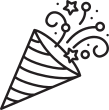
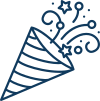
update

diff --git a/thiep/xacnhan.css b/thiep/xacnhan.css
@@ -78,7 +78,7 @@
   --primary-color: rgb(121, 45, 38);
   --empty-box: rgb(76, 53, 44);
   --secondary-color: #F8F3ED;
-  --text-color: #293a4a;
+  --text-color: #103a5d;
   --font-gotham: 'SVN-Gotham';
   --font-gotham-book: 'SVN-GothamBook';
   --font-gotham-bold: 'SVN-GothamBold';
@@ -181,7 +181,7 @@ body {
 }
 
 .dot {
-  color: #000;
+  color: var(--text-color);
   padding: 5% 0;
 }
 
@@ -372,7 +372,7 @@ hr {
 }
 
 .box-timeline .events {
-  width: 95%;
+  width: 90%;
   display: flex;
   justify-content: center;
   padding: 10% 0 20%;
@@ -382,6 +382,7 @@ hr {
 .box-timeline .events .event {
   /* width: 100%; */
   /* flex-basis: 20%; */
+  flex: 1;
   display: flex;
   flex-direction: column;
   justify-content: space-between;
@@ -409,6 +410,14 @@ hr {
   height: auto;
 }
 
+.box-timeline .events .event:nth-of-type(3) .icon {
+  width: 58px;
+} 
+
+.box-timeline .events .event:nth-of-type(4) .icon {
+  width: 42px;
+} 
+
 .box-timeline .events .event span {
   font-size: 12px;
   font-weight: 700;
@@ -427,14 +436,14 @@ hr {
 
 .lb-timeline {
   font-family: var(--font-mtd);
-  color: #111;
+  color: var(--text-color );
   font-size: 45px;
   margin-top: 20%;
 }
 
 .lb-timelinee {
   font-family: var(--font-mtd);
-  color: #111;
+  color: var(--text-color );
   font-size: 40px;
   margin: 1% 0 5%;
 }
@@ -460,6 +469,14 @@ hr {
   .box-timeline .events .event span {
     font-size: calc((12 / 500) * 100vw);
   }
+
+  .box-timeline .events .event:nth-of-type(3) .icon {
+    width: calc((58 / 500) * 100vw);
+  } 
+
+  .box-timeline .events .event:nth-of-type(4) .icon {
+    width: calc((42 / 500) * 100vw);
+  } 
 }
 
 /* SLIDER */
@@ -739,7 +756,7 @@ form {
 
 .hr1 {
   border: 0;
-  border-top: 1px solid #111;
+  border-top: 1px solid var(--text-color);
   width: 80%;
   margin: 0 auto;
   margin-bottom: 10px;
@@ -865,7 +882,7 @@ form {
   width: 100%;
   text-align: center;
   display: inline-block;
-  border: 2px solid #111;
+  border: 2px solid var(--text-color);
   padding: 1% 2%;
   margin: 1% 0;
   border-radius: 20px;
@@ -880,7 +897,7 @@ form {
 .box-feed:checked+label {
   color: white;
   /* border: 2px solid #FBE1D7; */
-  background-color: #111;
+  background-color: var(--text-color);
 }
 
 .box-ten {
@@ -896,7 +913,7 @@ form {
   height: 30px;
   text-align: left;
   border-radius: 20px;
-  border: 2px solid #111;
+  border: 2px solid var(--text-color);
   font-size: 12px;
   font-weight: 300;
   padding: 1% 4%;
@@ -910,7 +927,7 @@ textarea {
   height: 100px;
   text-align: left;
   border-radius: 20px;
-  border: 2px solid #111;
+  border: 2px solid var(--text-color);
   font-size: 12px;
   font-weight: 300;
   padding: 2% 4%;
@@ -939,11 +956,11 @@ textarea {
 .xacnhan {
   height: 30px;
   font-size: 15px;
-  background: #34393D;
+  background: var(--text-color);
   color: #fff;
   margin: 20px 10px;
   border-radius: 20px;
-  border: 1px solid #34393D;
+  border: 1px solid var(--text-color);
   cursor: pointer;
   width: 150px;
   z-index: 2;
@@ -951,7 +968,7 @@ textarea {
 
 .xacnhan:hover {
   background: #fff;
-  color: #111;
+  color: var(--text-color);
 }
 
 .boxx-imgend {
@@ -994,7 +1011,7 @@ textarea {
   align-items: center;
   margin: 50px 0 60px 0;
   line-height: 25px;
-  color: #111;
+  color: var(--text-color);
   font-weight: 300;
 }
 
@@ -1014,7 +1031,7 @@ textarea {
   text-align: center;
   border-radius: 20px;
   margin: 0 10px;
-  border: 1px solid #111;
+  border: 1px solid var(--text-color);
   background-color: transparent;
 }
 

diff --git a/thiepmoi.html b/thiepmoi.html
@@ -310,7 +310,7 @@
 
 
                 <div class="boxx-imgend">
-                    <img src="thiep/images/dc10265217c89996c0d9 (1) (1)-Photoroom.png" alt="">
+                    <img src="thiep/images/qrcode.png" alt="">
                     <p>Send a wedding gift to the bride and groom!</p>
                 </div>
             </div>

diff --git a/thiep/response.css b/thiep/response.css
@@ -93,4 +93,8 @@
     .inp-ten, textarea {
         width: calc((400 / 500) * 100vw);
     }
+
+    .boxx-imgend img {
+        max-width: calc((160 / 500) * 100vw);
+    }
 }
